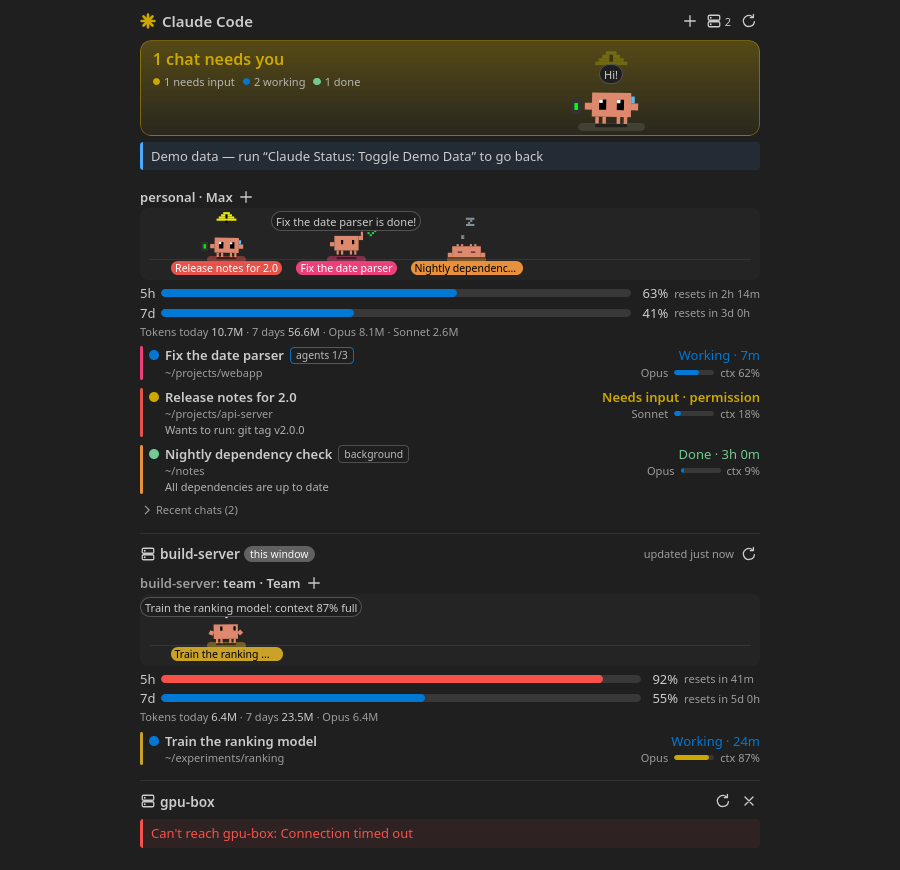
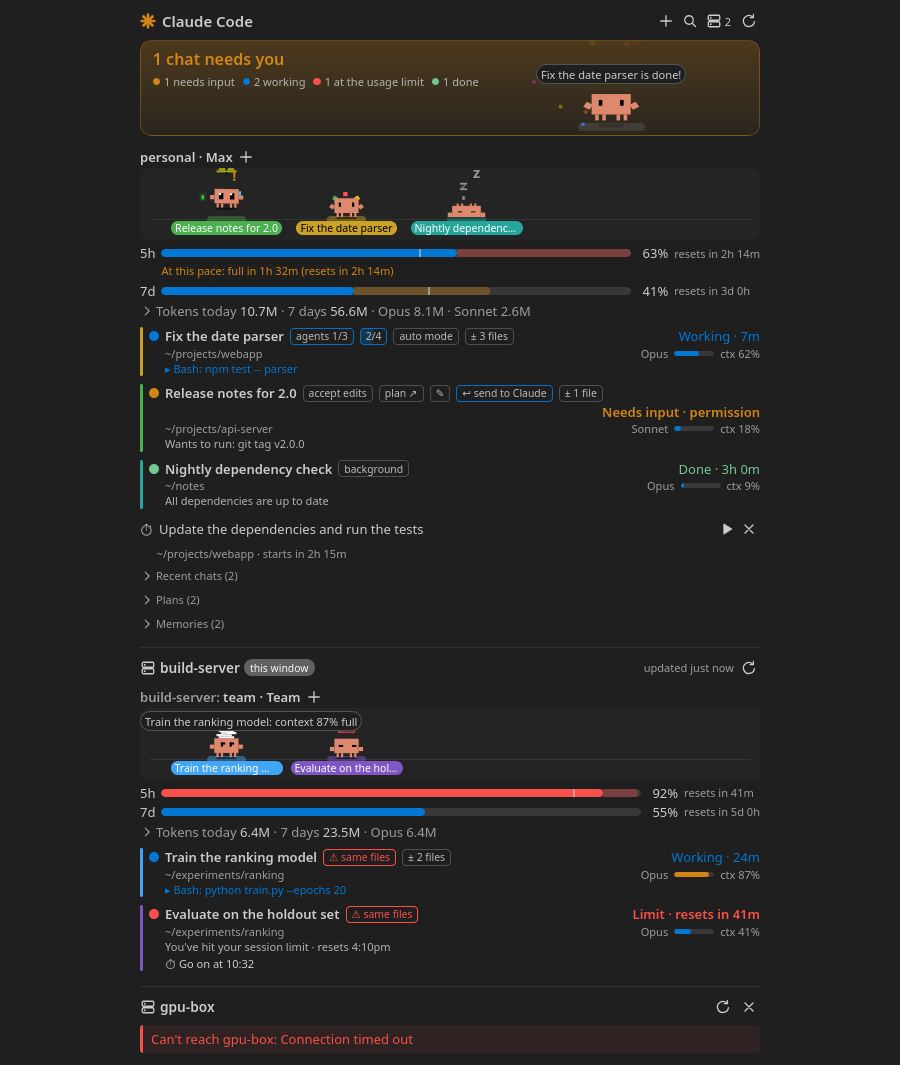
README screenshots of today's view; the harness can leave out the demo line
?banner=0 renders the demo data without its "Demo data" line, for the
screenshots. Made from the demo data, as before: no real chats.

Changed region(s): [[0.1556, 0.0, 0.84, 0.5897], [0.1556, 0.6207, 0.84, 0.9931], [0.7156, 0.6207, 0.84, 0.6517]]

diff --git a/dev/harness.html b/dev/harness.html
@@ -5,7 +5,8 @@
   dev/harness.html. ?theme=dark|light|hc  ?width=360  ?tab=1  ?phase=0
   ?open=1 (subagents with two of them unfolded, a peek, recent chats, plans, memories and the stats)  ?digest=1 (the "while
   you were away" card)  ?hover=1 (the rows' hover
-  buttons shown)  ?scroll=N (scrolled down N px). Errors show in a red box.
+  buttons shown)  ?scroll=N (scrolled down N px)  ?banner=0 (no "Demo data"
+  line, for screenshots). Errors show in a red box.
 -->
 <html lang="en">
   <head>

diff --git a/dev/harness.tsx b/dev/harness.tsx
@@ -30,6 +30,8 @@ function sendState(): void {
   if (params.get("default") === "1" && groups.length)
     groups.splice(1, 0, { ...groups[0], id: "demo-second", name: "work", title: "work · Team", plan: "Team", defaultHere: false, sessions: [] }),
       (groups[0] = { ...groups[0], defaultHere: true });
+  // ?banner=0: without the "Demo data" line, for the README's screenshots
+  if (params.get("banner") === "0") state.demo = false;
   send({ type: "state", state });
 }
 

diff --git a/README.md b/README.md
@@ -29,7 +29,7 @@ for KDE Plasma and GNOME; all of them use the same backend.
 
 <!-- Screenshots show demo data only (Claude Status: Toggle Demo Data, or dev/harness.html), never real chats. -->
 <p>
-  <img src="docs/screenshots/view-dark.png" alt="The Claude Status view in a dark theme: Clawd waves above &quot;1 chat needs you&quot;, an account with three chats, its pets and plan usage bars, and an SSH host" width="300">
+  <img src="docs/screenshots/view-dark.png" alt="The Claude Status view in a dark theme: Clawd under &quot;1 chat needs you&quot;, an account with three chats, their pets, plan usage bars and a queued task, and an SSH host with a chat a usage limit stopped" width="300">
   <img src="docs/screenshots/view-light.png" alt="The same view in a light theme" width="300">
 </p>
 
